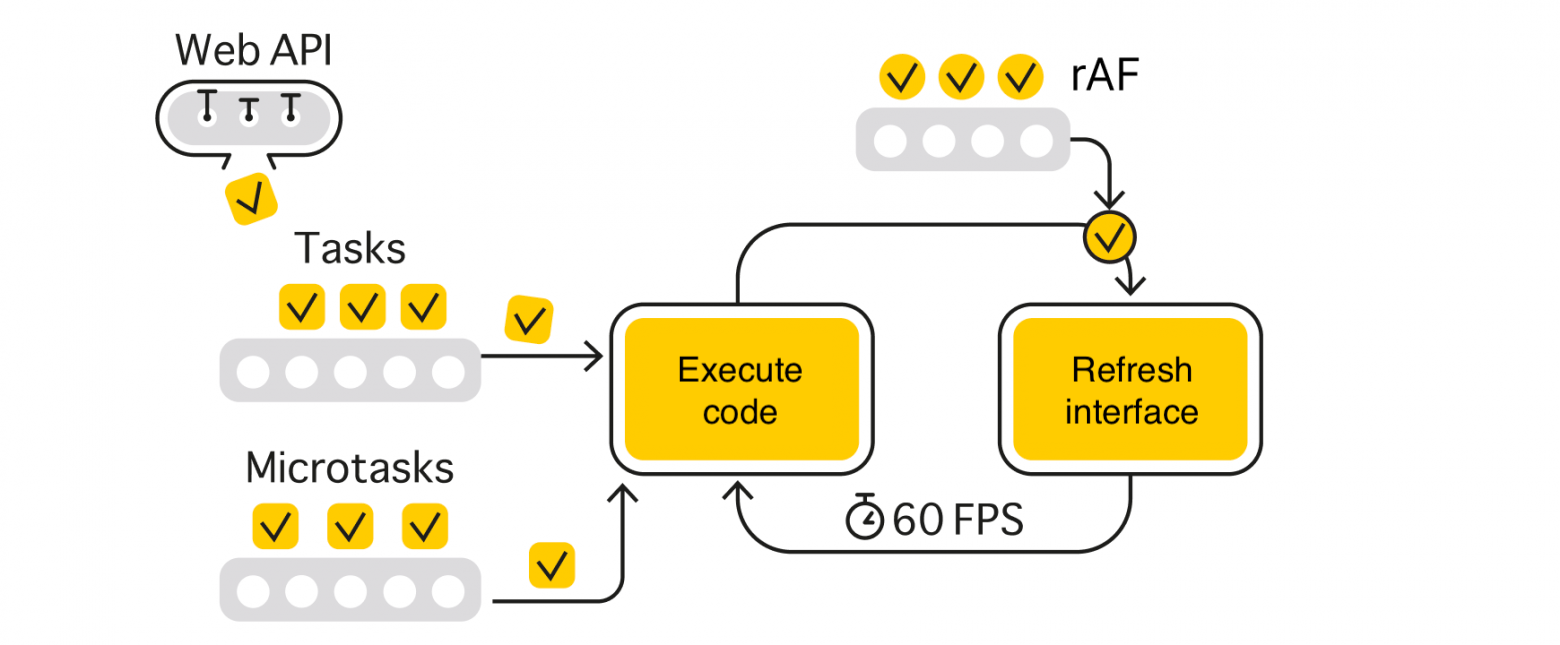
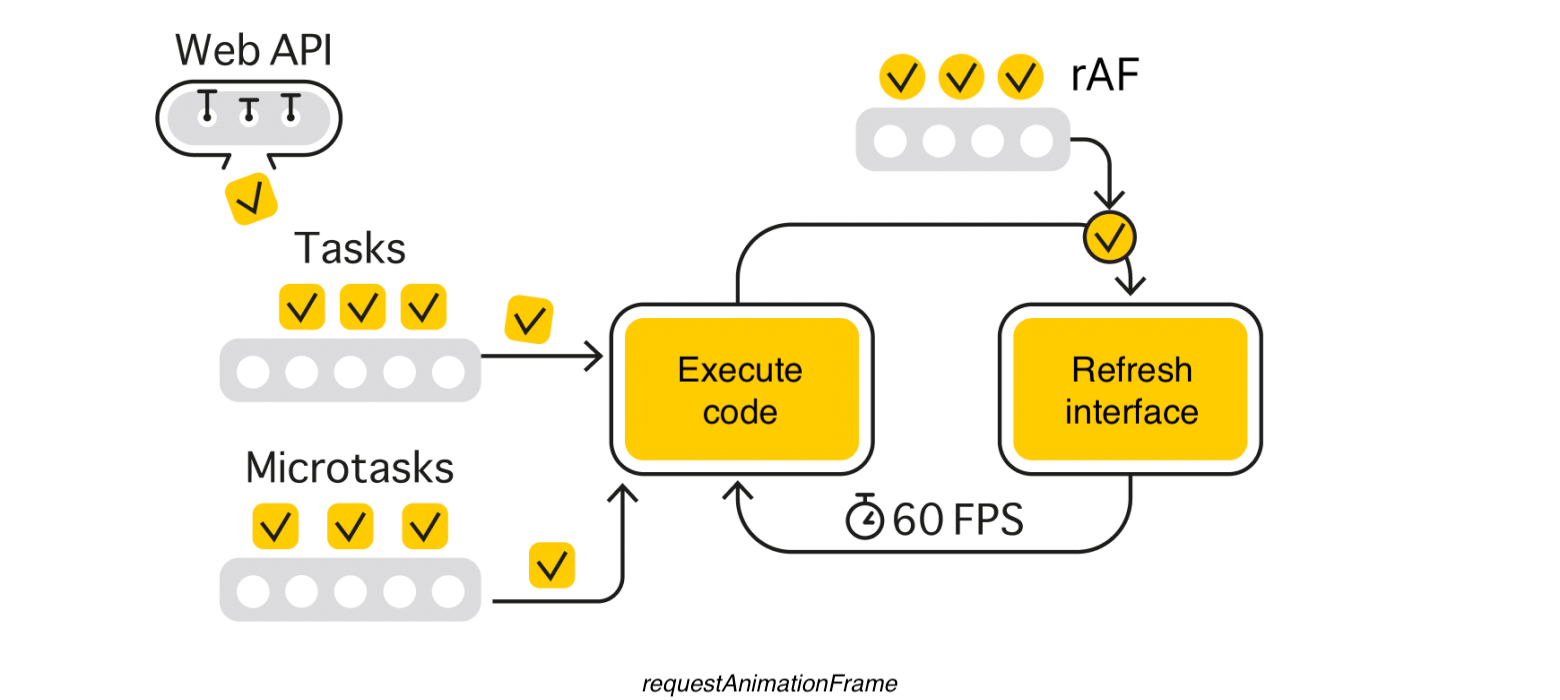
Images

Changed region(s): [[0.0923, 0.031, 0.8308, 0.9612], [0.4, 0.9612, 0.5846, 0.9922]]

diff --git a/README.md b/README.md
@@ -107,10 +107,6 @@ There may be multiple tasks ready for execution after asynchronous calls. Theref
 Tasks enter the queue through the asynchronous browser API. First, an asynchronous operation is performed somewhere in a separate thread, and after its completion, a task ready for execution is added to the call stack.
 
 ![img.png](task_queue.png?)
-<figcaption align="center">
-<i>Task queue.</i>
-</figcaption>
-<br />
 
 Understanding this concept, one can examine a peculiarity of timers in JavaScript, which are also part of the asynchronous API.
 
@@ -184,10 +180,6 @@ Aside from web workers, there is another, less obvious way to create a separate 
 
 Microtasks are tasks that are stored in a special separate queue.
 ![img.png](microtasks.png?)
-<figcaption align="center">
-<i>Microtask Queue.</i>
-</figcaption>
-<br />
 
 Tasks enter this queue when using promises, asynchronous functions, built-in calls to queueMicrotask, or Observer APIs.
 
@@ -252,19 +244,12 @@ Additionally, I recommend a good article [JavaScript Visualized: Promises & Asyn
 
 requestAnimationFrame (or abbreviated as rAF) allows you to execute JavaScript code right before updating the interface. Emulating such behavior with other methods, like timers, is almost impossible.
 ![img.png](raf_vs_no_raf.png?)
-<figcaption align="center">
-<i>At the top without rAF, at the bottom with rAF</i>
-</figcaption>
-<br />
 
 The main purpose of requestAnimationFrame is to provide smooth JavaScript animations, but it is not often used since animations are easier and more efficient to implement with CSS. Nevertheless, it occupies its own rightful place in the event loop.
 
 There may be multiple tasks that need to be executed before updating the next frame, so requestAnimationFrame has its own separate queue.
 ![img.png](raf.png?)
-<figcaption align="center">
-<i>requestAnimationFrame</i>
-</figcaption>
-<br />
+
 Tasks from the queue are executed once before updating the interface in the order they were added:
 
 ```javascript
